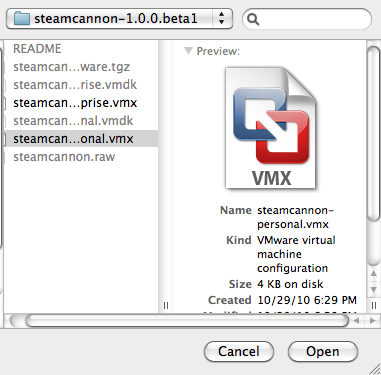
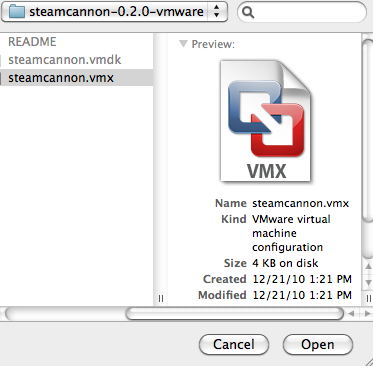
Updated vmware appliance instructions removing need to locate .vmdk file

Changed region(s): [[0.0, 0.0, 1.0, 0.9918], [0.9732, 0.9617, 1.0, 1.0], [0.0, 0.7514, 0.0295, 0.7814]]

diff --git a/_steps/vmware_appliance/open_vmx.md b/_steps/vmware_appliance/open_vmx.md
@@ -2,7 +2,7 @@
 title: Open the Virtual Machine in VMware
 ---
 
-Browse to your extracted appliance folder and open the .vmx file. For
-VMware Fusion, Workstation, and other desktop products choose
-steamcannon-personal.vmx. For enterprise products, choose
-steamcannon-enterprise.vmx.
+Browse to your extracted appliance folder and open the steamcannon.vmx
+file. Note that this virtual machine is designed for VMware Fusion,
+Workstation, and other desktop products and may not work with
+VMware enterprise products.
